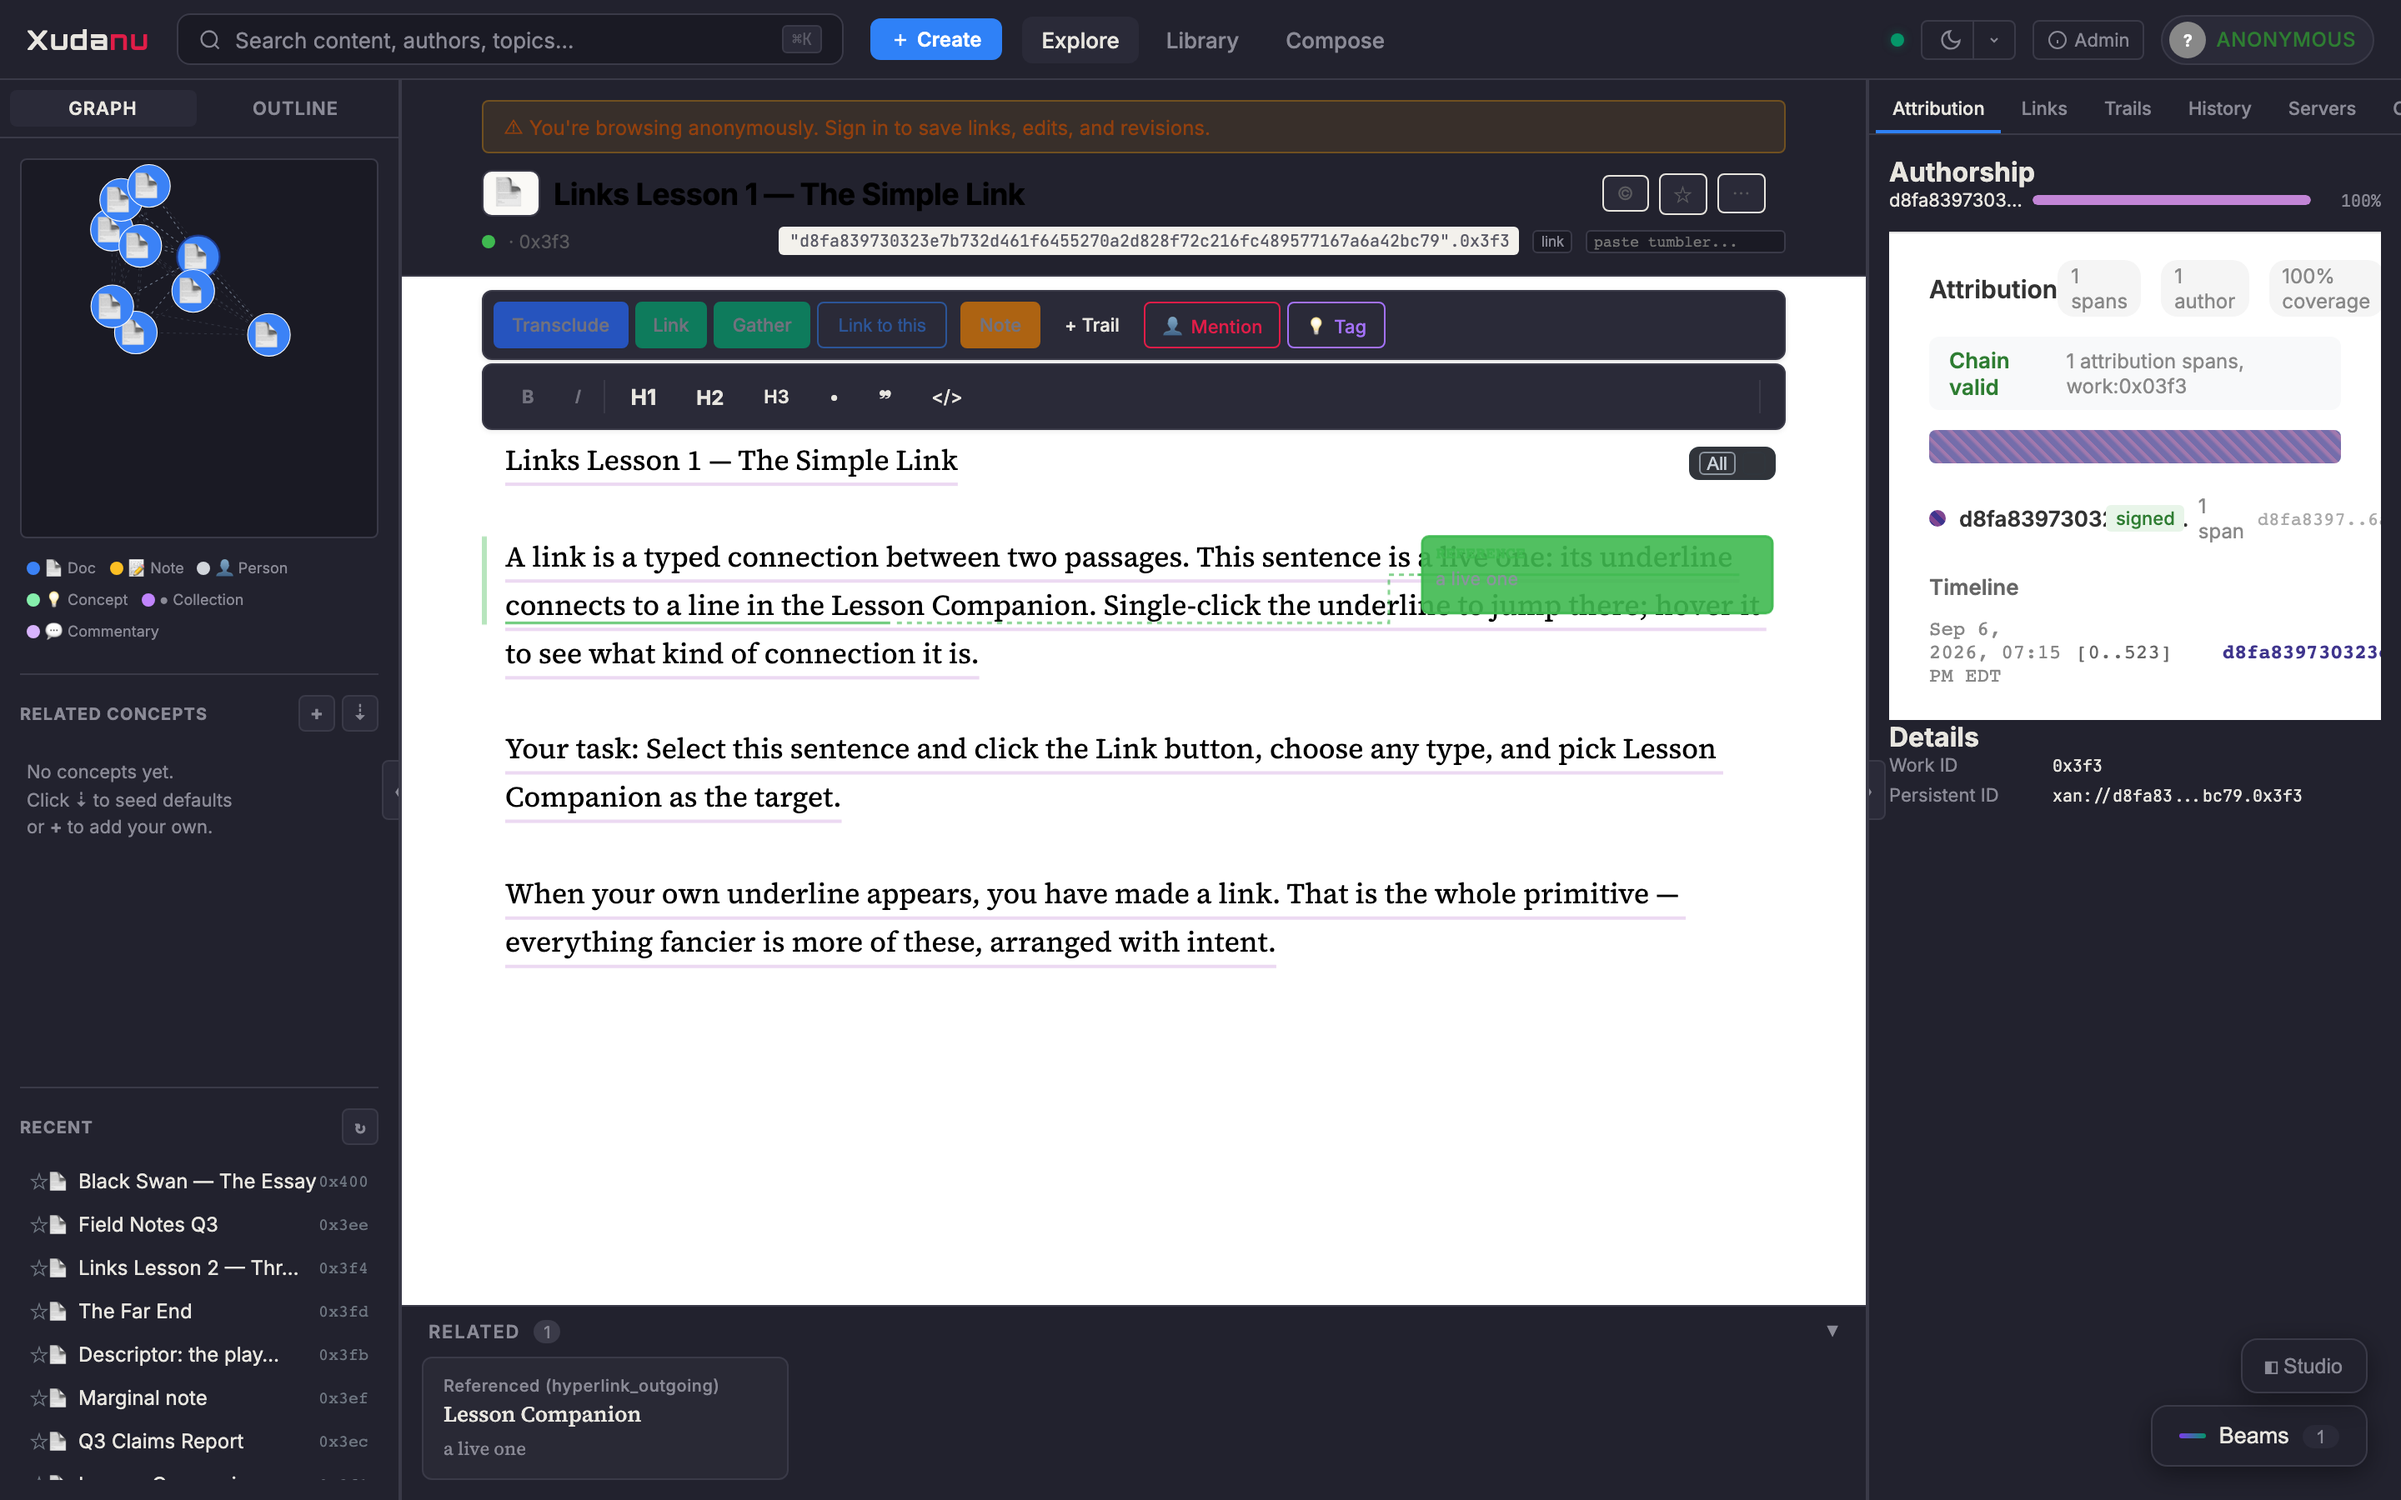
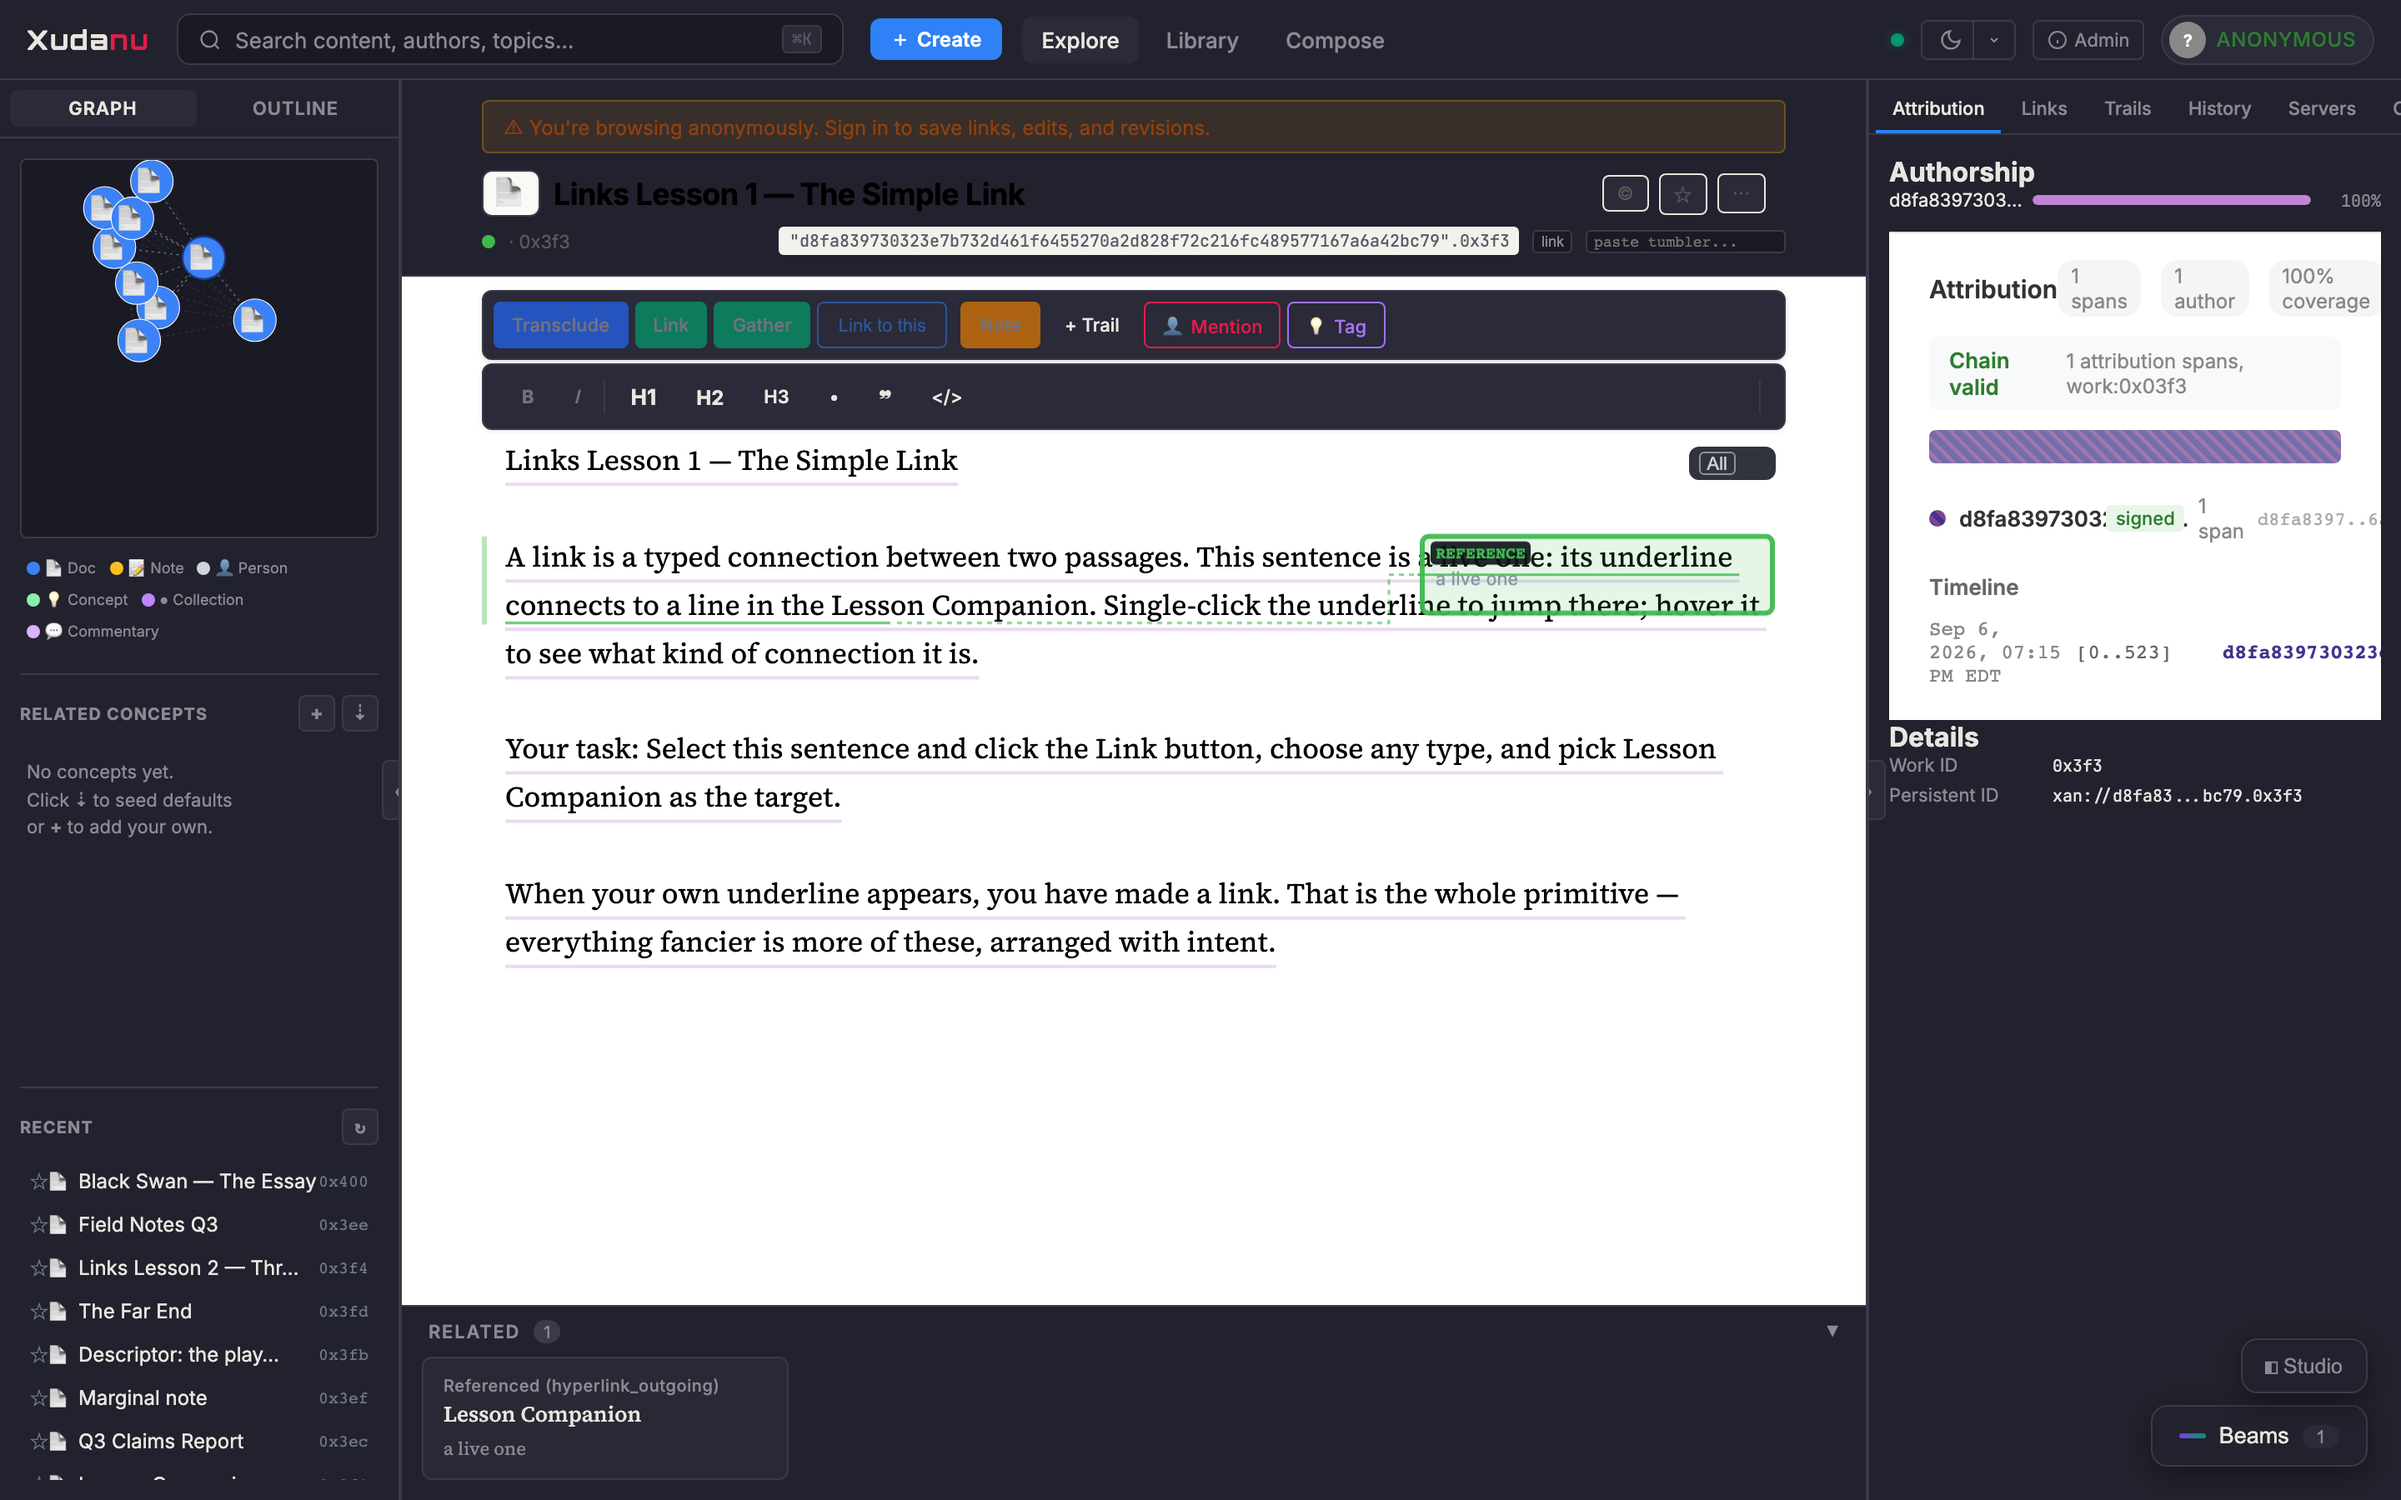
fix(ui): descriptor boxes — universal faint wash + thick border + label chip
Second demo-feedback round: the over-text boxes got the faint wash
but clear-margin boxes stayed near-opaque — reviewer wanted the
treatment universal. Now every descriptor box: ~13% wash interior,
3px solid type-color border, and the type label on its own dark
chip (legible over the wash). Pixel-verified: box interiors faint,
borders/labels carry the saturation.

Changed region(s): [[0.5938, 0.3422, 0.75, 0.4356], [0.0312, 0.0933, 0.125, 0.2489]]

diff --git a/web/app/src/components/CollaborativeEditor.tsx b/web/app/src/components/CollaborativeEditor.tsx
@@ -745,17 +745,16 @@ function drawOverlay(
       // forced OVER text it drops to ~70% so the lines beneath stay
       // visible — the overlap itself only happens when the text
       // column reaches past where the box would sit.
-      const fitsInMargin = desc.textRightX + 12 <= boxX;
-      // Demo feedback (2026-09-08): boxes over text dropped to 70%
-      // still drowned the passage. Now: a faint wash (~10%) keeps
-      // the text readable, and a THICK solid border carries the type
-      // color identity. Clear-margin boxes stay near-opaque with a
-      // matching border weight.
-      const fillA = fitsInMargin ? (isResolved ? "CC" : "E6") : "1A";
+      // Demo feedback (2026-09-08), universal treatment: the box is
+      // ALWAYS a faint wash — document text and box interior both
+      // readable — and the type-color identity rides a thick solid
+      // border. The type label gets its own dark chip so it stays
+      // legible over the wash.
+      const fillA = "22";
       ctx.fillStyle = color + fillA;
       ctx.strokeStyle = isResolved ? color + "60" : color + "F0";
       if (isResolved) ctx.setLineDash([3, 2]);
-      ctx.lineWidth = fitsInMargin ? 1.5 : 3;
+      ctx.lineWidth = 3;
       ctx.beginPath();
       const r = 4;
       ctx.moveTo(boxX + r, boxY);
@@ -773,11 +772,17 @@ function drawOverlay(
       ctx.restore();
 
       ctx.save();
-      ctx.fillStyle = isResolved ? color + "60" : color;
       ctx.font = `${isResolved ? "400" : "600"} 10px ui-monospace, SFMono-Regular, monospace`;
       ctx.textBaseline = "top";
       const typeName = LINK_TYPE_NAMES[desc.marker.linkTypeId!] ?? "Link";
-      ctx.fillText((isResolved ? "\u2713 " : "") + typeName.toUpperCase(), boxX + 8, boxY + 5);
+      const label = (isResolved ? "\u2713 " : "") + typeName.toUpperCase();
+      const tw = ctx.measureText(label).width;
+      ctx.fillStyle = "#0d1117e6";
+      ctx.beginPath();
+      ctx.roundRect(boxX + 5, boxY + 3, tw + 6, 14, 3);
+      ctx.fill();
+      ctx.fillStyle = isResolved ? color + "60" : color;
+      ctx.fillText(label, boxX + 8, boxY + 5);
 
       ctx.fillStyle = isResolved ? "#484f58" : "#8b949e";
       ctx.font = `${isResolved ? "italic " : ""}11px -apple-system, BlinkMacSystemFont, 'Segoe UI', Roboto, sans-serif`;
